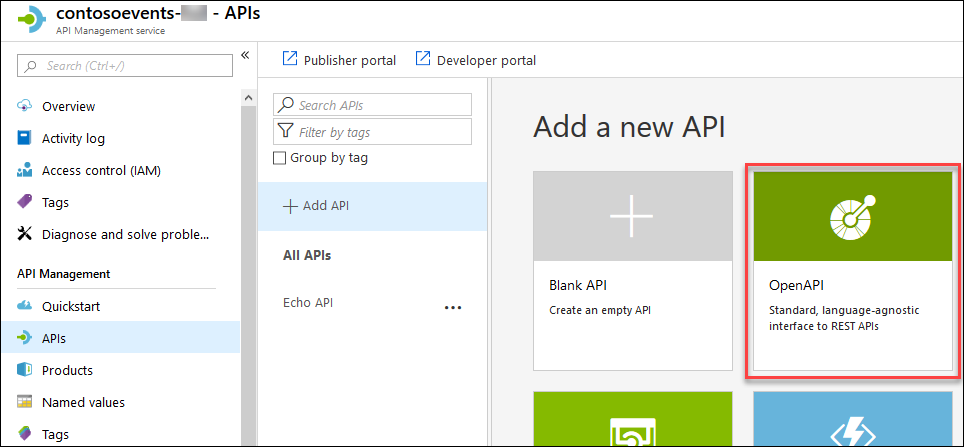
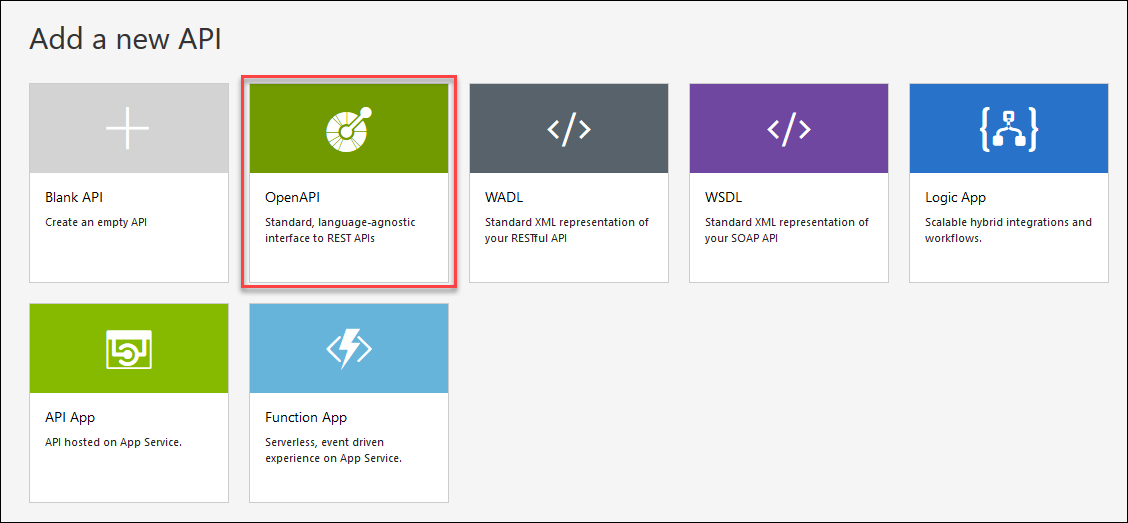
Refactored ContosoEventsApi to return a Tuple<bool, string> rather than a string.  Deleted the BaseUrl and SubscriptionKey values from the Web.config file.  HOL step-by-step text and screenshots updates.

diff --git a/Source/ContosoEventsPoC-DeveloperEdition/Src/ContosoEvents.Web/Helpers/ContosoEventsApi.cs b/Source/ContosoEventsPoC-DeveloperEdition/Src/ContosoEvents.Web/Helpers/ContosoEventsApi.cs
@@ -1,5 +1,6 @@
 using ContosoEvents.Web.Models.Api;
 using RestSharp;
+using System;
 using System.Collections.Generic;
 using System.Configuration;
 using System.Net;
@@ -44,39 +45,38 @@ namespace ContosoEvents.Web.Helpers
 
         public static Event GetEvent(string id)
         {
-            var request = new RestRequest("api/events/" + id, Method.GET);
+            var request = new RestRequest("events/api/events/" + id, Method.GET);
 
             return Execute<Event>(request);
         }
 
         public static Order GetOrder(string id)
         {
-            var request = new RestRequest("api/orders/" + id, Method.GET);
+            var request = new RestRequest("orders/api/orders/" + id, Method.GET);
 
             return Execute<Order>(request);
         }
 
         public static IList<Order> GetUserOrders(string username)
         {
-            var request = new RestRequest("api/orders/user/" + username, Method.GET);
+            var request = new RestRequest("orders/api/orders/user/" + username, Method.GET);
 
             return Execute<List<Order>>(request);
         }
 
-        public static string PlaceUserOrder(OrderRequest order)
+        public static Tuple<bool, string> PlaceUserOrder(OrderRequest order)
         {
-            var request = new RestRequest("api/orders", Method.POST);
+            var request = new RestRequest("orders/api/orders", Method.POST);
             request.AddJsonBody(order);
 
             var result = Execute(request);
-            return result.StatusCode == HttpStatusCode.OK && string.IsNullOrWhiteSpace(result.Content) == false
-                ? result.Content
-                : null;
+
+            return new Tuple<bool, string>(result.StatusCode == HttpStatusCode.OK, result.Content);
         }
 
         public static bool CancelUserOrder(string id)
         {
-            var request = new RestRequest("api/orders/cancel/" + id, Method.PUT);
+            var request = new RestRequest("orders/api/orders/cancel/" + id, Method.PUT);
 
             return Execute(request).StatusCode == HttpStatusCode.OK;
         }

diff --git a/Source/ContosoEventsPoC-DeveloperEdition/Src/ContosoEvents.Web/Controllers/OrdersController.cs b/Source/ContosoEventsPoC-DeveloperEdition/Src/ContosoEvents.Web/Controllers/OrdersController.cs
@@ -43,8 +43,9 @@ namespace ContosoEvents.Web.Controllers
                 if (string.IsNullOrWhiteSpace(data.FirstName)) data.FirstName = order.FirstName;
                 if (string.IsNullOrWhiteSpace(data.LastName)) data.LastName = order.LastName;
 
-                orderId = ContosoEventsApi.PlaceUserOrder(data);
-                result = orderId != null;
+                var placeUserOrderResult = ContosoEventsApi.PlaceUserOrder(data);
+                result = placeUserOrderResult.Item1;
+                orderId = placeUserOrderResult.Item2;
             }
 
             return View("OrderResult", new Tuple<bool, string>(result, orderId));

diff --git a/Hands-on lab/HOL step-by-step - Microservices architecture - Developer edition.md b/Hands-on lab/HOL step-by-step - Microservices architecture - Developer edition.md
@@ -630,9 +630,9 @@ Duration: 15 minutes
 
 In this exercise, you will configure the API Management service in the Azure portal.
 
-### Task 1: Import API
+### Task 1: Import Events API
 
-In this task, you will import the Web API description to your API Management service to create an endpoint.
+In this task, you will import the Events API description to your API Management service to create an endpoint.
 
 1.  In the Azure portal, navigate to the **hands-on-lab** resource group, and select your API Management Service from the list of resources.
 
@@ -646,9 +646,9 @@ In this task, you will import the Web API description to your API Management ser
 
     ![In the APIs blade, OpenAPI specification is circled.](media//image143.png "APIs blade")
 
-4.  Return to your Swagger browser window, and copy the URL from the textbox at the top of the screen, next to the Swagger logo, as shown in the screen shot below.
+4.  In a browser window, open the Contoso Events API - Events Swagger page, by navigating to `http://contosoeventssf-SUFFIX.southcentralus.cloudapp.azure.com:8082/swagger`.  Copy the Swagger document location by right-clicking the **/swagger/v1/swagger.json** link.
 
-    ![In the Swagger browser window, the URL is circled.](media/image144.png "Swagger browser window")
+    ![In the Swagger browser window, the Copy Link Location option is circled.](media/swagger-events.png "Swagger browser window")
 
 5.  Return to the Create from OpenAPI specification window, click the **Full** link and do the following:
 
@@ -668,17 +668,58 @@ In this task, you will import the Web API description to your API Management ser
 
     > **Note**: You would typically create a new product for each environment in a scenario like this one. For example, Development, Testing, Acceptance and Production (DTAP) and issue a key for your internal application usage for each environment, managed accordingly.
 
-6.  Select **Settings** in the ContosoEvents.WebApi toolbar, update **Web Service URL** to point to your published API endpoint.  Ensure that it uses HTTP instead of HTTPS, and select **Save**.
+6.  Select **Settings** in the Contoso Events API - Events toolbar, update **Web Service URL** to point to your published API endpoint.  Ensure that it uses HTTP instead of HTTPS, and select **Save**.
 
-    ![On the right of ContosoEvents.WebApi api blade, the Settings tab is selected, and Web Service URL and Save are circled.](media/image145a.png "")
+    ![On the right of Contoso Events API item, the Settings tab is selected, and Web Service URL and Save are circled.](media/eventsapi-settings.png "")
 
-    > **Note**: Notice the URL under "Base URL". You will use this URL in your website configuration in the next exercise.
+    > **Note**: After saving, notice the URL under "Base URL". You will use this URL in your website configuration in the next exercise.
+    
+### Task 2:  Import Orders API
 
-7.  Select **Design**. you will see your API backend endpoint.
+In this task, you will import the Orders API description to your API Management service to create an endpoint.
 
-    ![In the APIs blade, ContosoEvents.WebApi is circled. On the right, the Design tab is selected, and the ContosoEvents.WebApi Backend endpoint URL is circled.](media/image146.png "Publisher portal")
+1.  In the Azure portal, navigate to the **hands-on-lab** resource group, and select your API Management Service from the list of resources.
 
-### Task 2: Retrieve the user subscription key
+    ![In the Resource group list of resources, the contosoevents-SUFFIX API Management service is circled.](media/image141.png "Resource group list of resources")
+
+2.  In the API Management blade, select **APIs** under API Management.
+
+    ![In the API Management blade, on the left, under Api Management, APIs is circled.](media//image142.png "API Management blade")
+
+3.  In the APIs blade, select **OpenAPI**.
+
+    ![In the APIs blade, OpenAPI specification is circled.](media//image143.png "APIs blade")
+
+4.  In a browser window, open the Orders Events API - Events Swagger page, by navigating to `http://contosoeventssf-SUFFIX.southcentralus.cloudapp.azure.com:8083/swagger`.  Copy the Swagger document location by right-clicking the **/swagger/v1/swagger.json** link.
+
+    ![In the Swagger browser window, the Copy Link Location option is circled.](media/swagger-orders.png "Swagger browser window")
+
+5.  Return to the Create from OpenAPI specification window, click the **Full** link and do the following:
+
+    a. Paste the URL copied from Swagger into the OpenAPI specification textbox.
+
+    b. Select **HTTPs** as the URL scheme.
+
+    c. Enter **events** in the API URL suffix textbox.
+    
+    d. Tags: Leave empty.
+
+    e. Select **Unlimited** in the Products.
+
+    f. Select **Create**.
+    
+    ![On the Create from OpenAPI specification window, fields are set to previously defined settings.](media/ordersapi-creation.png "Create from OpenAPI specification")
+
+    > **Note**: You would typically create a new product for each environment in a scenario like this one. For example, Development, Testing, Acceptance and Production (DTAP) and issue a key for your internal application usage for each environment, managed accordingly.
+
+6.  Select **Settings** in the Contoso Events API - Orders toolbar, update **Web Service URL** to point to your published API endpoint.  Ensure that it uses HTTP instead of HTTPS, and select **Save**.
+
+    ![On the right of Contoso Events API item, the Settings tab is selected, and Web Service URL and Save are circled.](media/ordersapi-settings.png "")
+
+    > **Note**: After saving, notice the URL under "Base URL". You will use this URL in your website configuration in the next exercise.
+
+
+### Task 3: Retrieve the user subscription key
 
 In this task, you will retrieve the subscription key for the client applications to call the new API Management endpoint.
 
@@ -700,7 +741,7 @@ In this task, you will retrieve the subscription key for the client applications
 
 5.  You now have the API Management application key you will need to configure the Function App settings.
 
-### Task 3: Configure the Function App with the API Management key
+### Task 4: Configure the Function App with the API Management key
 
 In this task, you will provide the API Management key in a setting for the Function App, so it can reach the Web API through the API Management service.
 
@@ -735,14 +776,14 @@ In this task, you will update configuration settings to communicate with the API
     <add key="apimng:BaseUrl" value="" \>
     <add key="apimng:SubscriptionKey" value="" \>
     ```
-
+    
     ![In Solution Explorer, the following folders are expanded: Web\\ContosoEvents.Web\\Web.config.](media/image152.png "Solution Explorer")
 
-2.  For the apimng:BaseUrl key, enter the base URL of the API you created in the API Management Publisher Portal (Exercise 5, Task 1, Step 5), such as <https://contosoevents-SUFFIX.azure-api.net/events/>
+2.  For the apimng:BaseUrl key, enter the base URL of the API you created in the API Management Publisher Portal (Exercise 5, Task 1, Step 5), such as <https://contosoevents-SUFFIX.azure-api.net/>
 
-    > **Note**: Make sure to include a trailing "/" or the exercise will not work.
+    > **Note**: Make sure to use only the domain name, and include a trailing "/" or the exercise will not work.
 
-3.  For the apimng:SubscriptionKey key, enter the subscription key you revealed in API Management developer portal (Exercise 5, Task 2, Step 4).
+3.  For the apimng:SubscriptionKey key, enter the subscription key you revealed in API Management developer portal (Exercise 5, Task 3, Step 3).
 
 4.  Save Web.config. You should have values for two of the API Management app settings.
 
@@ -755,6 +796,8 @@ In this task, you will test the web application calls to API Management by creat
 1.  Using Solution Explorer in Visual Studio, expand the Web folder, then right-click the ContosoEvents.Web project, select **Debug**, and then **Start new instance**.
 
     ![In Solution Explorer, ContosoEvents.Web is circled, and its right-click menu displays.](media/image154.png "Solution Explorer")
+    
+    > **Note:** If you receive an error regarding roslyn\csc.exe path, clean the Solution and rebuild.
 
 2.  If prompted about whether you would like to trust the IIS Express SSL certificate, select **Yes**, then select **Yes** again at the Security Warning prompt.
 
